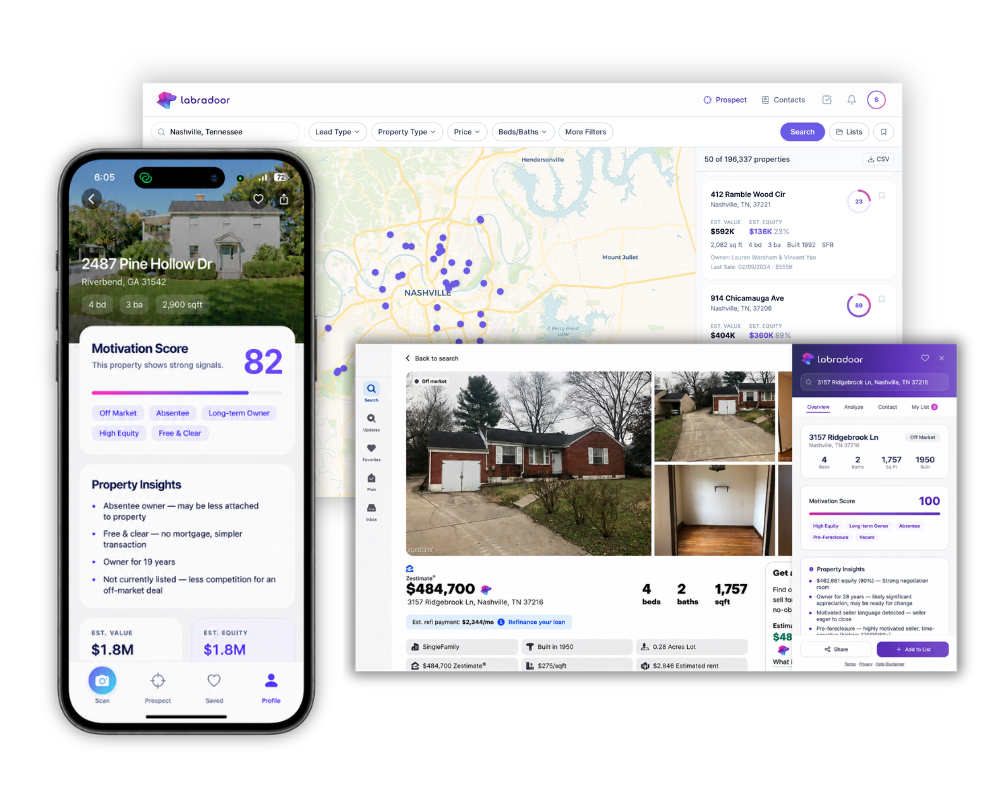
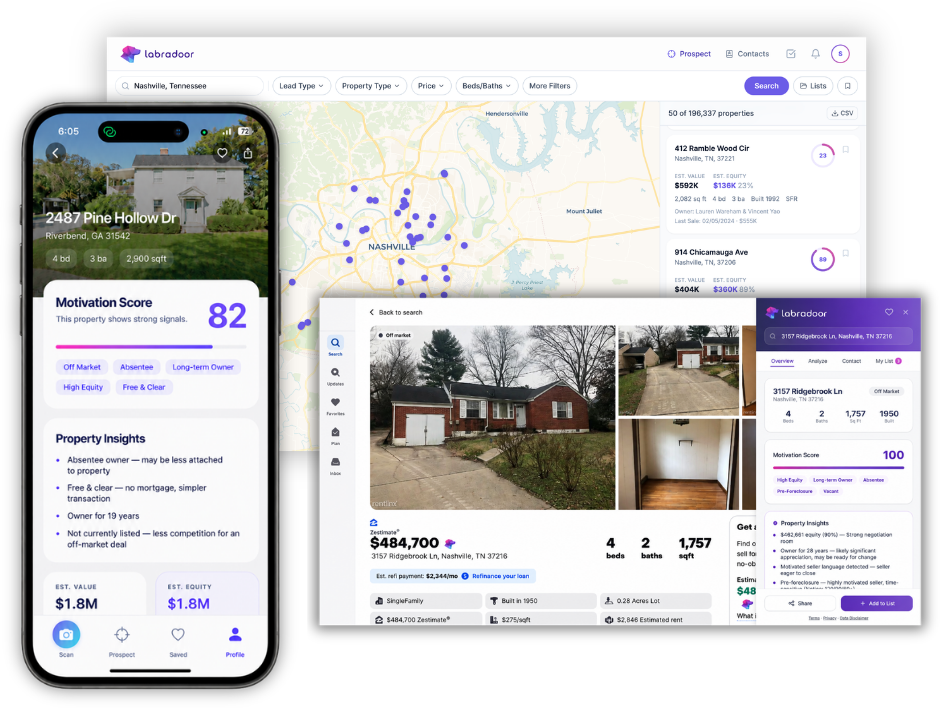
Surfaces section: new heading/subtext, close the gap above the artwork
Copy updated to Scott's wording.

The gap under the subtext was ~110px because two things stacked: the
heading block's own 64px bottom margin AND 46px of fully-transparent
padding baked into the top of the artwork. Cropped the PNG to its alpha
bounding box (1000x800 -> 940x708, lossless — only fully-transparent rows
removed, drop shadows untouched) and cut the margin, which brings the gap
to 34px on desktop / 24px on mobile.

diff --git a/index.html b/index.html
@@ -1015,10 +1015,13 @@
     .surfaces {
       margin-top: clamp(88px, 10vw, 140px);
     }
+    /* Tight bottom margin on purpose: the artwork below is cropped flush to
+       its own drop shadows, so this margin is the entire gap — there's no
+       transparent padding left in the image to pad it out further. */
     .surfaces-head {
       text-align: center;
-      max-width: 760px;
-      margin: 0 auto clamp(44px, 5vw, 64px);
+      max-width: 800px;
+      margin: 0 auto clamp(24px, 2.6vw, 34px);
     }
     .surfaces-head h3 {
       font-size: clamp(28px, 3.4vw, 42px);
@@ -1043,7 +1046,7 @@
       position: relative;
       /* The composite's native width. Scaling past it only softens the
          image, so it caps here and centres in the wider container. */
-      max-width: 1000px;
+      max-width: 940px;
       margin: 0 auto clamp(52px, 6vw, 76px);
     }
     /* Brand bloom behind the artwork, matching the per-story --glow
@@ -1361,14 +1364,14 @@
         <div class="surfaces">
           <div class="surfaces-head">
             <span class="section-label">One account, three ways in</span>
-            <h3>Wherever you look at a house, Labradoor is already there.</h3>
-            <p>Standing on the sidewalk. Scrolling listings at midnight. Building a lead list at your desk. Same data, same account, same answer &mdash; whichever screen you happen to be in front of.</p>
+            <h3>Where you find a home, Labradoor uncovers the opportunity.</h3>
+            <p>Labradoor gives you property intelligence whether you're standing in front of a home, browsing properties online, or building a targeted lead list. Instantly uncover hidden property data, owner insights, equity, motivation signals, and more, all with one account.</p>
           </div>
 
           <div class="surface-stack">
             <picture>
               <source srcset="images/surfaces.webp" type="image/webp">
-              <img src="images/surfaces.png" width="1000" height="800" loading="lazy" decoding="async"
+              <img src="images/surfaces.png" width="940" height="708" loading="lazy" decoding="async"
                    alt="Labradoor running on all three surfaces at once: the iPhone app showing a Motivation Score of 82 with property insights, the web platform showing a map of Nashville with scored off-market leads, and the Chrome extension open over a Zillow listing">
             </picture>
           </div>
